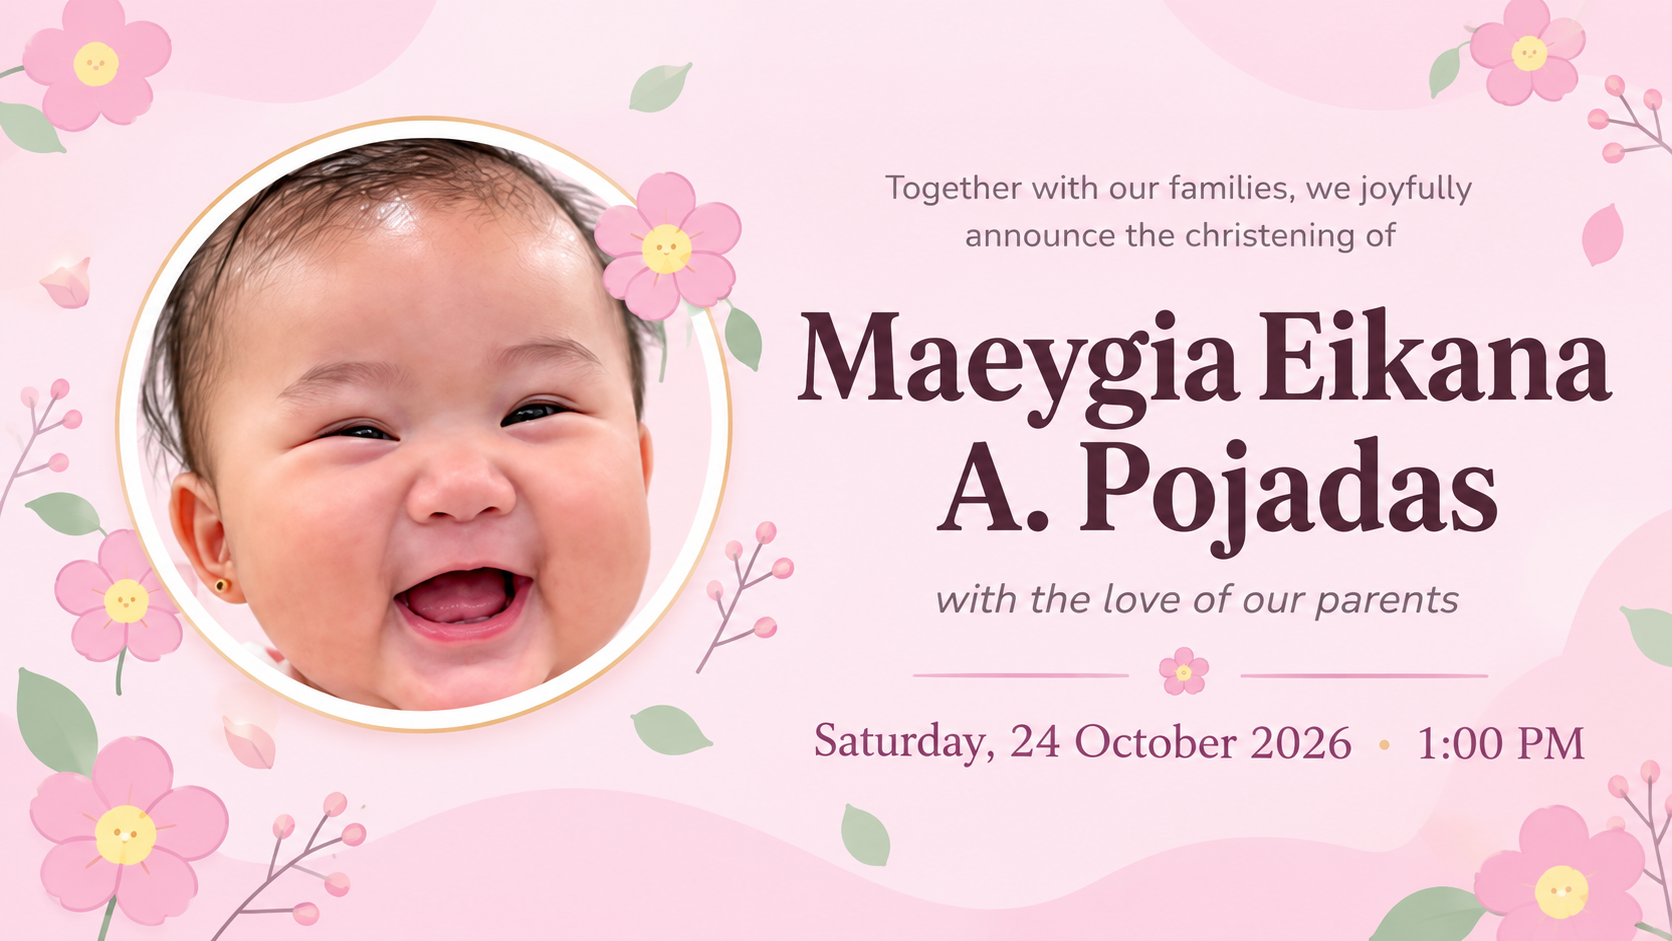
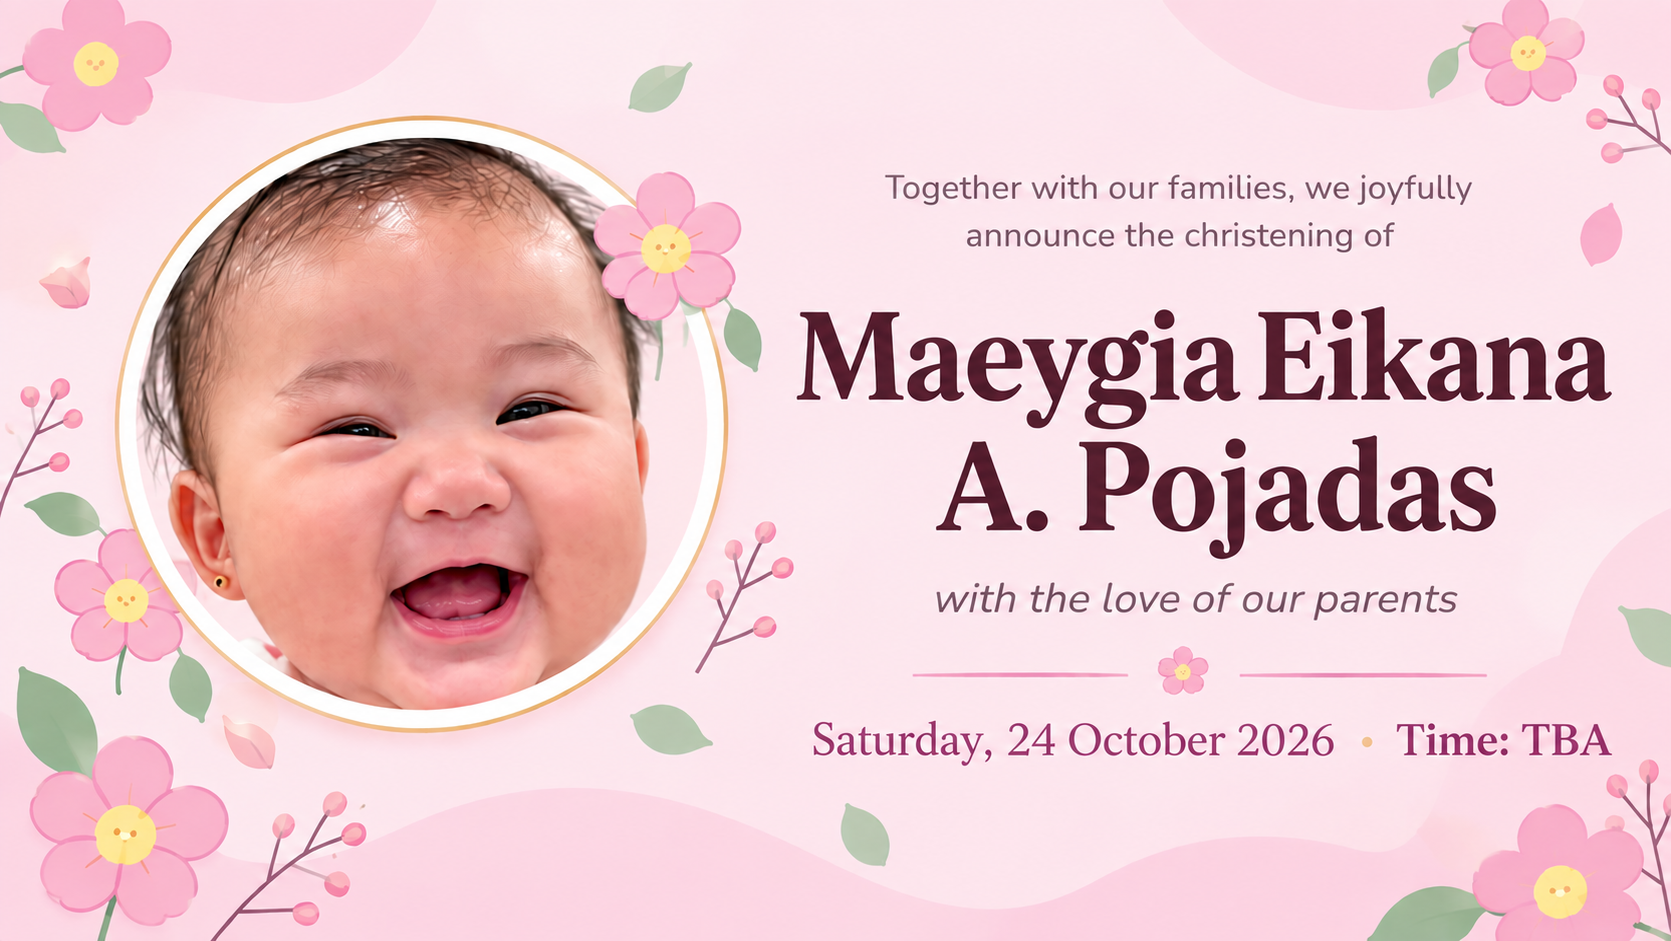
Update invitation and preview

diff --git a/index.html b/index.html
@@ -80,7 +80,7 @@
       <p class="hero__date">
         <span>Saturday, 24 October 2026</span>
         <span class="hero__dot" aria-hidden="true">&middot;</span>
-        <span>1:00 PM</span>
+        <span>Time: TBA</span>
       </p>
 
       <a class="btn btn--primary hero__cta" href="#details">View the details</a>
@@ -104,7 +104,7 @@
             <dl class="card__meta">
               <div class="card__row">
                 <dt>When</dt>
-                <dd>Saturday, 24 October 2026 &middot; 1:00 PM</dd>
+                <dd>Saturday, 24 October 2026 &middot; Time: TBA</dd>
               </div>
               <div class="card__row">
                 <dt>Where</dt>
